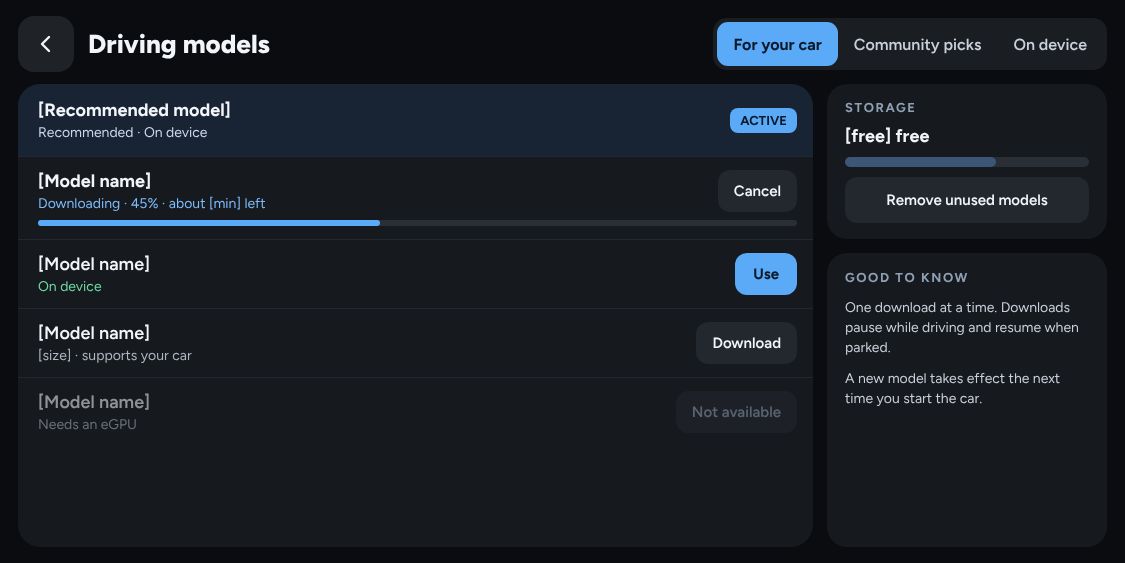
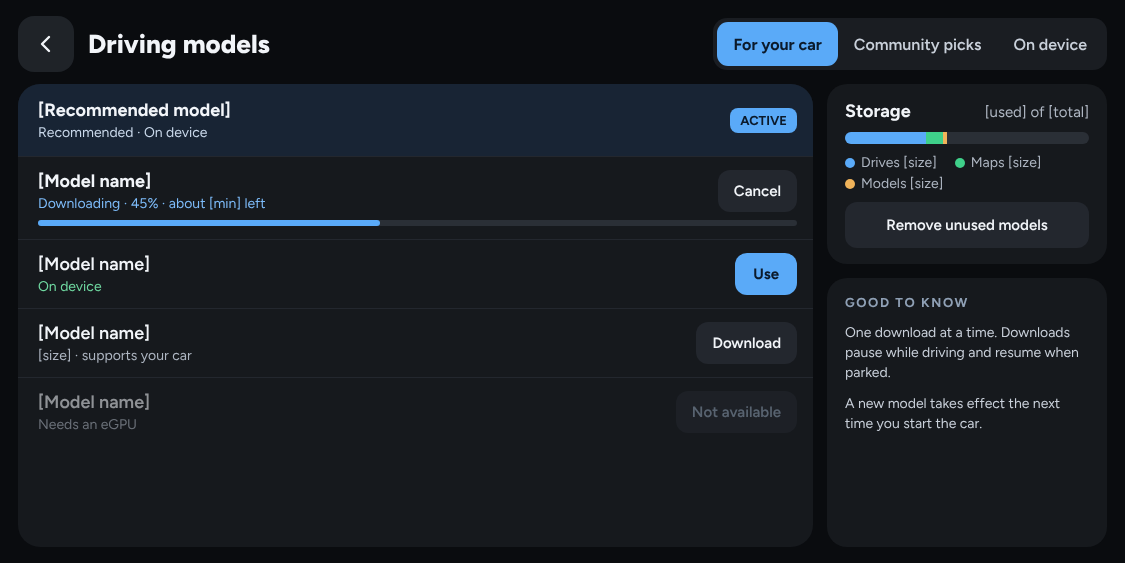
Essentials: model catalog uses the shared storage bar
The catalog's Storage card shows the same split bar as Storage & Data and
Offline Maps, replacing its single-color disk bar. The legend wraps in narrow
cards, and the shared measurement refreshes every 30 s so downloads show up.

Claude-Session: https://claude.ai/code/session_01R4pPc2hcx88Dbjjec1p8WC

Changed region(s): [[0.7467, 0.4831, 0.9644, 0.7851], [0.7467, 0.1812, 0.9644, 0.3623], [0.7467, 0.3925, 0.9644, 0.4529]]

diff --git a/selfdrive/ui/tandem/design/modelcatalog.html b/selfdrive/ui/tandem/design/modelcatalog.html
@@ -52,9 +52,13 @@ a{color:#7DBBF9}a:hover{color:#A9D3FB}
     </div>
     <div style="width: 280px; flex-shrink: 0; display: flex; flex-direction: column; gap: 14px;">
       <div style="background: #16191D; border-radius: 20px; padding: 16px 18px; display: flex; flex-direction: column; gap: 10px;">
-        <span style="font-size: 13px; font-weight: 700; letter-spacing: 1.6px; color: #8FA0B5;">STORAGE</span>
-        <span style="font-size: 18px; font-weight: 700;">[free] free</span>
-        <div style="height: 10px; border-radius: 5px; background: #2A2F36;"><div style="width: 62%; height: 10px; border-radius: 5px; background: #3B5677;"></div></div>
+        <div style="display: flex; justify-content: space-between; align-items: baseline;"><span style="font-size: 18px; font-weight: 700;">Storage</span><span style="font-size: 15px; color: #AEB6C2;">[used] of [total]</span></div>
+        <div style="height: 12px; border-radius: 6px; background: #2A2F36; display: flex; overflow: hidden;"><div style="width: 33%; background: #5AAAF8;"></div><div style="width: 7%; background: #3FD08A;"></div><div style="width: 2%; background: #F0B35A;"></div></div>
+        <div style="display: flex; flex-wrap: wrap; column-gap: 18px; row-gap: 4px; font-size: 14px; color: #AEB6C2;">
+          <span style="display: flex; align-items: center; gap: 6px;"><span style="width: 10px; height: 10px; border-radius: 5px; background: #5AAAF8; display: block;"></span>Drives [size]</span>
+          <span style="display: flex; align-items: center; gap: 6px;"><span style="width: 10px; height: 10px; border-radius: 5px; background: #3FD08A; display: block;"></span>Maps [size]</span>
+          <span style="display: flex; align-items: center; gap: 6px;"><span style="width: 10px; height: 10px; border-radius: 5px; background: #F0B35A; display: block;"></span>Models [size]</span>
+        </div>
         <button type="button" style="font-family: inherit; height: 46px; border: 0; border-radius: 12px; background: #23272E; color: #F2F5F9; font-size: 15px; font-weight: 600;">Remove unused models</button>
       </div>
       <div style="flex-grow: 1; background: #16191D; border-radius: 20px; padding: 16px 18px; display: flex; flex-direction: column; gap: 10px; font-size: 14px; color: #C9D0DA; line-height: 1.45;">

diff --git a/selfdrive/ui/tandem/settings/device_sections.py b/selfdrive/ui/tandem/settings/device_sections.py
@@ -201,7 +201,26 @@ class StorageBar(Component):
 
   def preferred_size(self, max_width: float) -> tuple[float, float]:
     title = draw.line_height(T.font_px(18) if self._heading else T.SIZE_ROW_TITLE)
-    return max_width, self._padding[1] * 2 + title + T.px(14) + draw.line_height(T.SIZE_SUBTITLE) + T.px(20)
+    lines = len(self._legend(self._sizes(), max_width - self._padding[0] * 2))
+    return max_width, self._padding[1] * 2 + title + T.px(14) + T.px(20) + self._legend_height(lines)
+
+  @staticmethod
+  def _legend_height(lines: int) -> float:
+    return lines * draw.line_height(T.SIZE_SUBTITLE) + (lines - 1) * T.px(4)
+
+  def _legend(self, sizes: dict[str, float], width: float) -> list[list[tuple[str, rl.Color, float]]]:
+    """Legend entries (label, color, width) in lines, wrapping where a narrow card can't fit them on one."""
+    lines: list[list[tuple[str, rl.Color, float]]] = [[]]
+    x = 0.0
+    for kind, color in self.KINDS:
+      label = f"{kind} {_gb(sizes.get(kind, 0.0))}"
+      w = T.px(18) + draw.text_width(label, T.SIZE_SUBTITLE)
+      if lines[-1] and x + w > width:
+        lines.append([])
+        x = 0.0
+      lines[-1].append((label, color, w))
+      x += w + T.px(24)
+    return lines
 
   def _render(self, rect: rl.Rectangle):
     sizes = self._sizes()
@@ -234,12 +253,16 @@ class StorageBar(Component):
       else:
         draw.fill(segment, color)
       x += w
-    lx = legend.x
-    for kind, color in self.KINDS:
-      dot = rl.Rectangle(lx, legend.y + legend.height / 2 - T.px(5), T.px(10), T.px(10))
-      draw.fill(dot, color, T.px(5))
-      lx += T.px(18) + draw.text(rl.Rectangle(lx + T.px(18), legend.y, legend.width, legend.height),
-                                 f"{kind} {_gb(sizes.get(kind, 0.0))}", T.SIZE_SUBTITLE, T.TEXT_TERTIARY) + T.px(24)
+    lines = self._legend(sizes, legend.width)
+    line_h = draw.line_height(T.SIZE_SUBTITLE)
+    y = legend.y + (legend.height - self._legend_height(len(lines))) / 2
+    for entries in lines:
+      lx = legend.x
+      for label, color, w in entries:
+        draw.fill(rl.Rectangle(lx, y + line_h / 2 - T.px(5), T.px(10), T.px(10)), color, T.px(5))
+        draw.text(rl.Rectangle(lx + T.px(18), y, w, line_h), label, T.SIZE_SUBTITLE, T.TEXT_TERTIARY)
+        lx += w + T.px(24)
+      y += line_h + T.px(4)
 
 
 def _gb(size: float) -> str:
@@ -337,16 +360,21 @@ def report_panel(report: Report) -> Widget:
 
 
 class StorageSizes:
-  """Space used on /data by kind, measured on a background thread and shared by every page that shows it. Until a
-  measurement finishes it returns the last one (zeros at first); forget() re-measures after something is deleted."""
+  """Space used on /data by kind, measured on a background thread and shared by every page that shows it (Storage &
+  Data, Offline Maps, the model catalog). Until a measurement finishes it returns the last one (zeros at first);
+  forget() re-measures right away after something is deleted."""
+  REFRESH = 30.0
 
   def __init__(self):
     self._sizes: dict[str, float] = {}
     self._measuring = False
     self._generation = 0   # bumped by forget(), so a measurement that started before a delete is thrown away
+    self._measured_at = 0.0
 
   def sizes(self) -> dict[str, float]:
-    if not self._measuring and not self._sizes:
+    """Re-measured every REFRESH seconds while something shows it, so model and map downloads show up too."""
+    import time
+    if not self._measuring and (not self._sizes or time.monotonic() - self._measured_at > self.REFRESH):
       import threading
       self._measuring = True
       threading.Thread(target=self._measure, args=(self._generation,), daemon=True).start()
@@ -358,6 +386,7 @@ class StorageSizes:
 
   def _measure(self, generation: int) -> None:
     import shutil
+    import time
     from pathlib import Path
 
     def size(*paths: str) -> float:
@@ -375,6 +404,7 @@ class StorageSizes:
                      "Total": float(usage.total), "Free": float(usage.free)}
       if generation == self._generation:
         self._sizes = sizes
+        self._measured_at = time.monotonic()
     finally:
       self._measuring = False
 

diff --git a/selfdrive/ui/tandem/settings/model.py b/selfdrive/ui/tandem/settings/model.py
@@ -19,6 +19,7 @@ from openpilot.selfdrive.ui.tandem.blocks import SPACER, Card, Columns, Inline, 
 from openpilot.selfdrive.ui.tandem.controls import Badge, Button, ButtonStyle, Segmented, Switch
 from openpilot.selfdrive.ui.tandem.layout import FILL, Align, column, inset, place, row
 from openpilot.selfdrive.ui.tandem.rows import ListPanel, SectionHeader, SettingRow, Text
+from openpilot.selfdrive.ui.tandem.settings.device_sections import STORAGE, StorageBar
 from openpilot.selfdrive.ui.tandem.settings.pages import TitledPage
 from openpilot.selfdrive.ui.tandem.settings.store import SettingsStore
 
@@ -42,8 +43,6 @@ class ModelSource(Protocol):
   def downloading_key(self) -> str | None: ...
   def progress(self) -> str: ...
   def egpu_available(self) -> bool: ...
-  def free_space(self) -> str: ...
-  def disk_used(self) -> float | None: ...   # share of the device's storage in use
   def use(self, key: str) -> None: ...
   def download(self, key: str) -> None: ...
   def cancel(self) -> None: ...
@@ -297,7 +296,7 @@ class CatalogPage(Component):
   grow_touch_target = False
   TABS = ["All models", "Community picks", "On device"]   # the mock's "For your car": StarPilot lists every model for every car
 
-  def __init__(self, models: Models):
+  def __init__(self, models: Models, sizes: Callable[[], dict[str, float]]):
     super().__init__()
     self._models = models
     self._tab = 0
@@ -307,14 +306,12 @@ class CatalogPage(Component):
       lambda: ListPanel([model_row(models, m) for m in models.tab(self._tab)] or [Text("No models here yet.")]),
       models.source.tick))
     remove = Button(lambda: f"Remove unused models ({len(models.unused())})" if models.unused() else "Remove unused models",
-                    models.remove_unused, height=T.px(46), font_size=T.font_px(15))
+                    lambda: (models.remove_unused(), STORAGE.forget()), height=T.px(46), font_size=T.font_px(15))
     remove.set_enabled(lambda: bool(models.unused()))
     note = lambda text: Text(text, T.SIZE_SUBTITLE, T.TEXT_SECONDARY, padding=(0, 0))  # noqa: E731
     self._side = self._child(Stack([
       Card([
-        Label("STORAGE", caption=True),
-        Label(models.source.free_space, T.font_px(18)),
-        DiskBar(models.source.disk_used),
+        StorageBar(sizes, heading="Storage", padding=(0, 0)),
         remove,
       ], gap=T.px(10), padding=(T.px(18), T.px(16)), background=T.SURFACE_2),
       Card([
@@ -338,28 +335,6 @@ class CatalogPage(Component):
     left, right = row(content, [FILL, T.px(280)], T.px(14))
     self._list.render(left)
     self._side.render(right)
-
-
-class DiskBar(Component):
-  """How full the device's storage is."""
-  grow_touch_target = False
-
-  def __init__(self, used: Callable[[], float | None]):
-    super().__init__()
-    self._used = used
-
-  def preferred_size(self, max_width: float) -> tuple[float, float]:
-    return max_width, T.px(10) if self._used() is not None else 0
-
-  def _render(self, rect: rl.Rectangle):
-    used = self._used()
-    if used is None:
-      return
-    draw.fill(rect, T.TRACK, T.px(5))
-    draw.fill(rl.Rectangle(rect.x, rect.y, max(rect.height, rect.width * min(1.0, used)), rect.height), STORAGE_INK, T.px(5))
-
-
-STORAGE_INK = rl.Color(0x3B, 0x56, 0x77, 255)
 
 
 class UpstreamModels:
@@ -399,21 +374,6 @@ class UpstreamModels:
 
   def egpu_available(self) -> bool:
     return bool(self._dm.external_gpu_available())
-
-  def free_space(self) -> str:
-    import shutil
-    try:
-      return f"{shutil.disk_usage(self._layout._model_dir).free / 1e9:.1f} GB free"
-    except OSError:
-      return "Free space unknown"
-
-  def disk_used(self) -> float | None:
-    import shutil
-    try:
-      usage = shutil.disk_usage(self._layout._model_dir)
-      return usage.used / usage.total if usage.total else None
-    except OSError:
-      return None
 
   def use(self, key: str) -> None:
     self._layout.select_model(key)

diff --git a/selfdrive/ui/tandem/settings/driving_tab.py b/selfdrive/ui/tandem/settings/driving_tab.py
@@ -108,7 +108,7 @@ def driving_hub(window) -> Widget:
     HubTile("Alerts", [alerts.summary, alerts.chimes_summary], opener(lambda: alerts_page(alerts, window)),
             icon="volume"),
     HubTile("Driving Model", [lambda: models.get().summary(), lambda: models.get().update_summary()],
-            opener(lambda: model_page(models.get(), opener(lambda: CatalogPage(models.get())))), icon="model"),
+            opener(lambda: model_page(models.get(), opener(lambda: CatalogPage(models.get(), window.device_data().storage)))), icon="model"),
     HubTile("Vehicle", [car, lambda: f"{profile.summary()} profile · {vehicle.get().buttons_summary()}"],
             opener(lambda: vehicle_page(vehicle.get(), window, opener(starpilot("VEHICLE")))), icon="car"),
   ], rows=[3, 2], strip=strip)

diff --git a/selfdrive/ui/tandem/tests/fakes.py b/selfdrive/ui/tandem/tests/fakes.py
@@ -35,12 +35,6 @@ class FakeModels:
   def egpu_available(self):
     return False
 
-  def free_space(self):
-    return "12.4 GB free"
-
-  def disk_used(self):
-    return 0.62
-
   def use(self, key):
     self.current = key
 

diff --git a/selfdrive/ui/tandem/README.md b/selfdrive/ui/tandem/README.md
@@ -87,7 +87,7 @@ This fork is rebased onto StarPilot, and everything outside this package belongs
 | | Offline Maps and the region picker | `maps.py` | Maps screen controller; removal is StarPilot's (parked, not mid-download), confirmed in our dialog |
 | | Tuner Mode: Steering, Gas & Brake, Following & Stops, Bundle Overrides | `tuner.py`, `editors.py` | |
 | Device | This Device | `device.py` | `DeviceLayout` handlers |
-| | General, Backups, Storage & Data, Report a Problem | `device_sections.py` | Same folders and report as StarPilot's System screen; one storage measurement shared with Offline Maps, which can also be deleted here |
+| | General, Backups, Storage & Data, Report a Problem | `device_sections.py` | Same folders and report as StarPilot's System screen; one storage measurement shared with Offline Maps and the model catalog; offline maps can also be deleted here |
 | Network | Wi-Fi, Cellular, and Roaming, APN and IP address | `network_tab.py` | `WifiManager` |
 | Bluetooth | Wheel Buttons, car audio, nearby devices | `bluetooth_tab.py` | Wheel controls service, `BluetoothManager` |
 | Software | Updates, release channel, Reset Settings, Uninstall | `software_tab.py`, `defaults.py` | `SoftwareLayout` actions |
